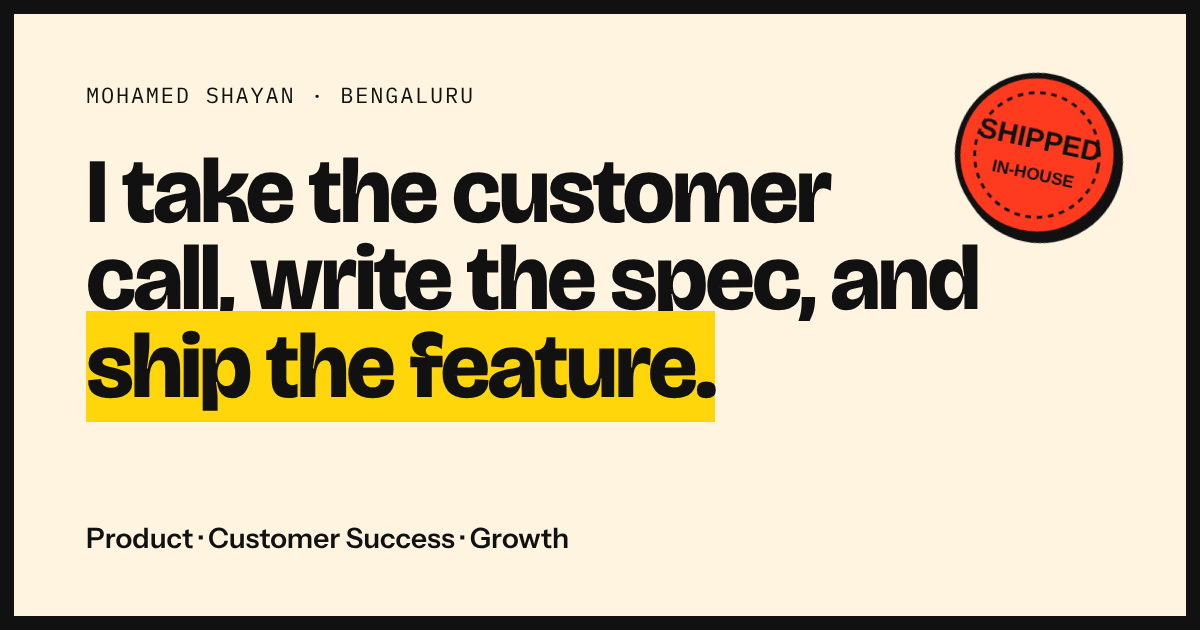
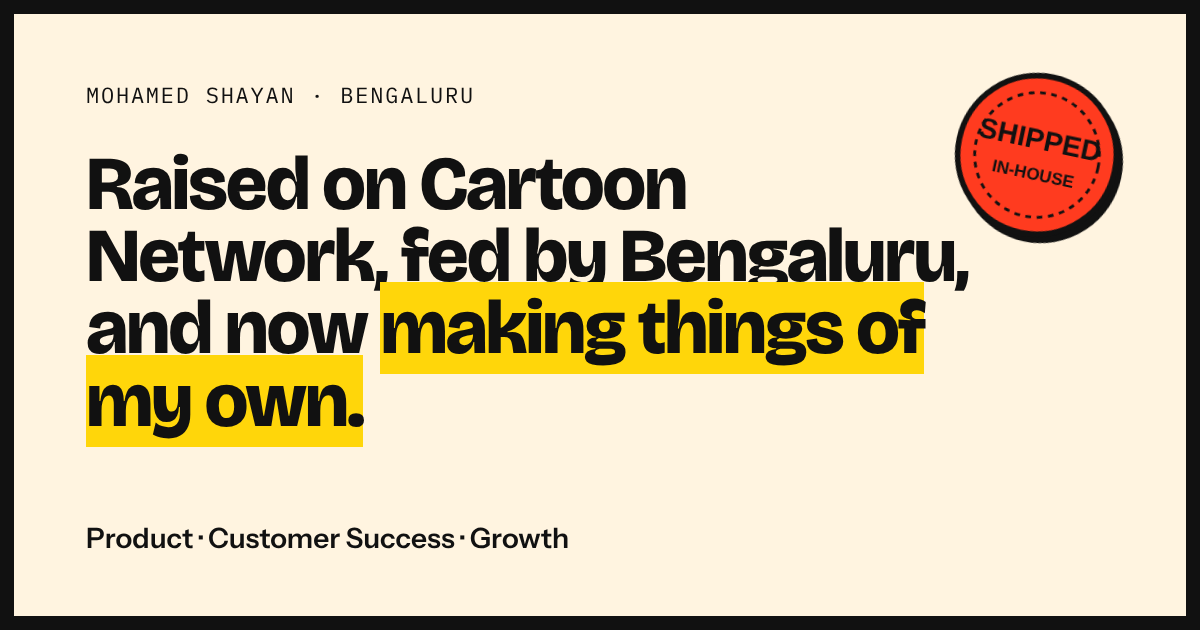
Write home page copy in Shayan's voice and add House rules
New headline and bio around the consumer-to-maker thesis, a loop intro
for the proof cards, a House rules section with three working beliefs,
and a rewritten Off the clock. Refresh the share image to match.

Claude-Session: https://claude.ai/code/session_011PPd5QSkzyjdAmAMpCduKm

Changed region(s): [[0.0617, 0.2413, 0.8325, 0.7238]]

diff --git a/src/config/site.ts b/src/config/site.ts
@@ -7,18 +7,27 @@ export const site = {
   name: 'Mohamed Shayan',
   shortName: 'Shayan',
   description:
-    'Mohamed Shayan takes the customer call, writes the spec, and ships the feature himself. Product and Customer Success at Segwise.ai, food walks around Bengaluru.',
-  headline: 'I take the customer call, write the spec, and ship the feature.',
-  // Words in the headline to highlight in yolk
-  headlineHighlight: 'ship the feature.',
-  bio: 'Head of Product & Customer Success at Segwise.ai, an AI platform that shows performance marketers why their ads work. I joined as the first non-engineering hire on a four-person team. Now I run 43 accounts and ship a lot of what they ask for myself.',
+    'Mohamed Shayan leads Product and Customer Success at Segwise.ai, ships features himself with AI agents, and runs food walks around Bengaluru.',
+  headline: 'Raised on Cartoon Network, fed by Bengaluru, and now making things of my own.',
+  // Words in the headline to highlight
+  headlineHighlight: 'making things of my own.',
+  bio: "I've spent most of my life consuming things, from cartoons and films to food and other people's products, and somewhere along the way it all turned into taste. Now I get to put that to work, leading Product and Customer Success at Segwise.ai, shipping features myself with AI agents, and running food walks around the city. I'm curious to see if the world agrees with my taste.",
   location: 'Bengaluru',
   status: 'Currently cooking at Segwise.ai',
   // The areas of work shown under the bio
   crafts: ['Product', 'Customer Success', 'Growth', 'Building with AI agents'],
+  // Line under "The proof" heading on the home page
+  proofIntro:
+    "Most days I'm somewhere in the same loop of talking to a customer, spotting what's missing and building whatever fills the gap. Here's what that has added up to so far.",
+  // "House rules" on the home page: how you work
+  houseRules: [
+    "Talk to your customers every day, because even when they can't put the problem into words, they'll still show you what to build next.",
+    'Every PM should be shipping now. Coding agents took away the last good excuse, and getting over the fear of breaking things turned out to be the hardest part.',
+    "Give me a messy, ambiguous problem over a tidy one any day, since that's usually where you need to understand both the tech and the people using it.",
+  ],
   // "Off the clock" on the home page: who you are outside work
   offTheClock:
-    'Off the clock, I run Hungry Mother Fakir, a food page of restaurant reviews, food walks and hosted meals around Bengaluru. I also teach kids from kindergarten to Grade 6 with Samiksha Foundation, so they can keep up with school during cancer treatment. TODO: the pop culture, sports and travel that make you you, in your own words.',
+    "Cartoon Network and Disney more or less raised me, and I still watch a ridiculous amount of TV. When I'm not doing that, I'm probably eating my way around Bengaluru for Hungry Mother Fakir, my food page of restaurant reviews, food walks and hosted meals, or teaching kids from kindergarten to Grade 6 with Samiksha Foundation so they can keep up with school during cancer treatment.",
   contact: {
     email: 'mohamedshayan5@gmail.com',
     linkedin: 'https://www.linkedin.com/in/mohamed-shayan-22071998/',

diff --git a/src/styles/ramen.css b/src/styles/ramen.css
@@ -14,6 +14,10 @@
     line-height: 1.04;
   }
 
+  & .rule-list li::before {
+    font-weight: 400;
+  }
+
   /* A lantern hanging over the counter */
   & .hero {
     background: radial-gradient(60rem 30rem at 85% -10%, rgb(255 201 60 / 0.13), transparent 70%);
